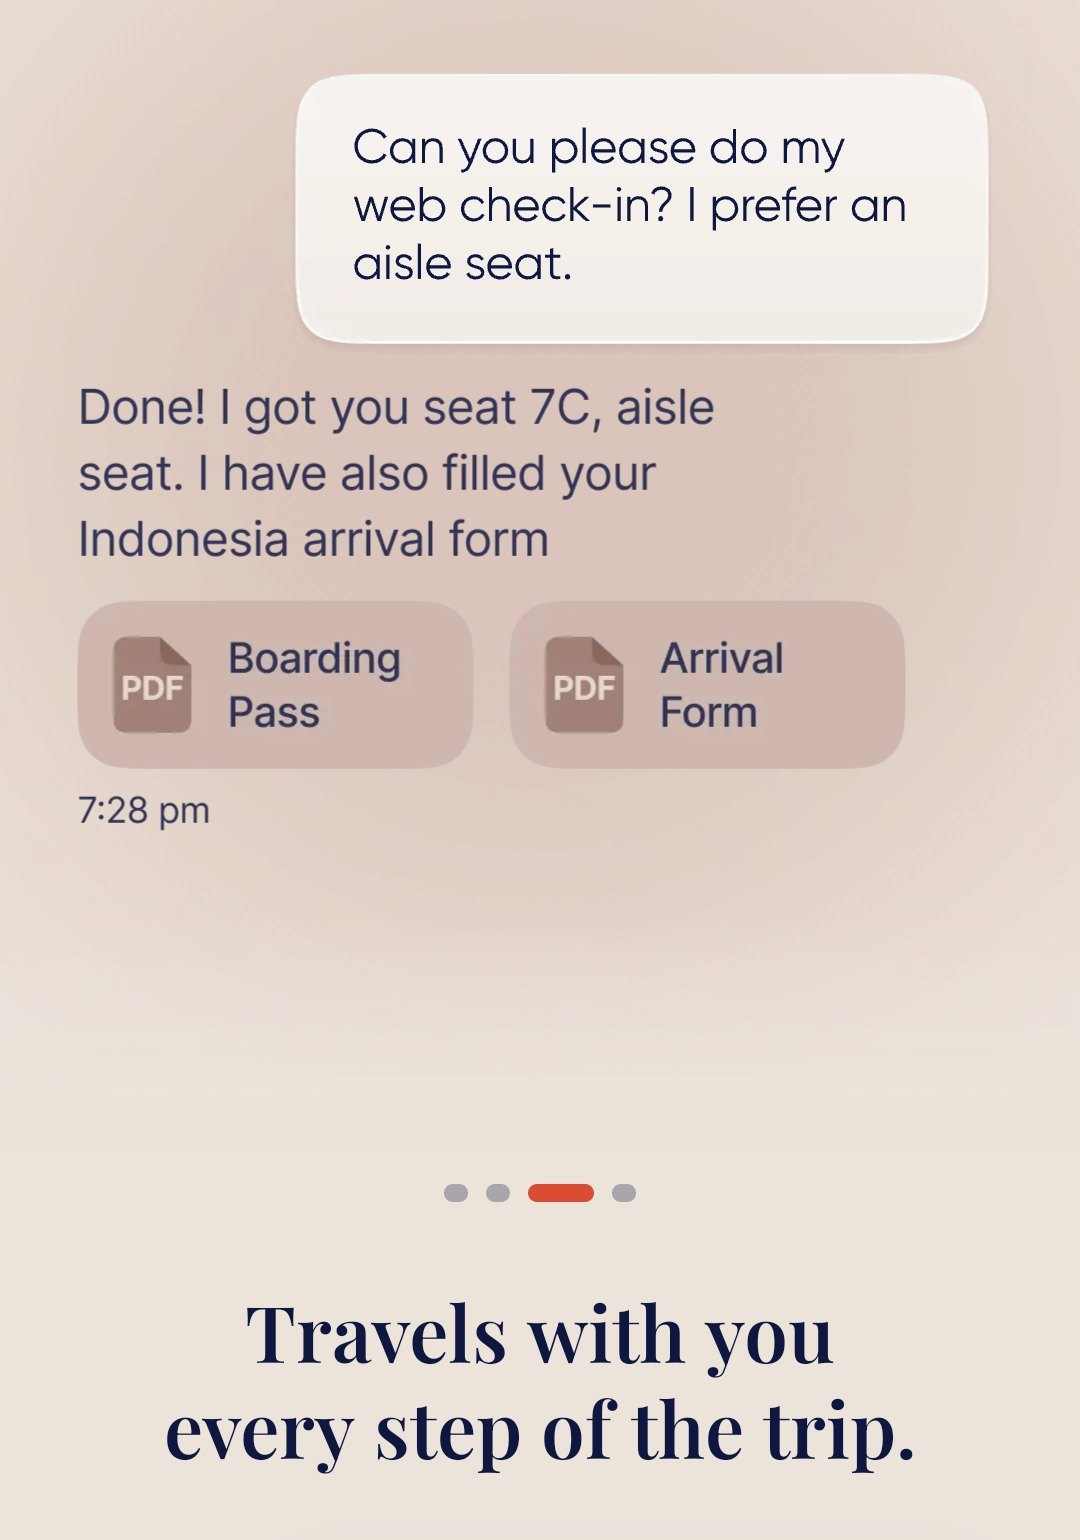
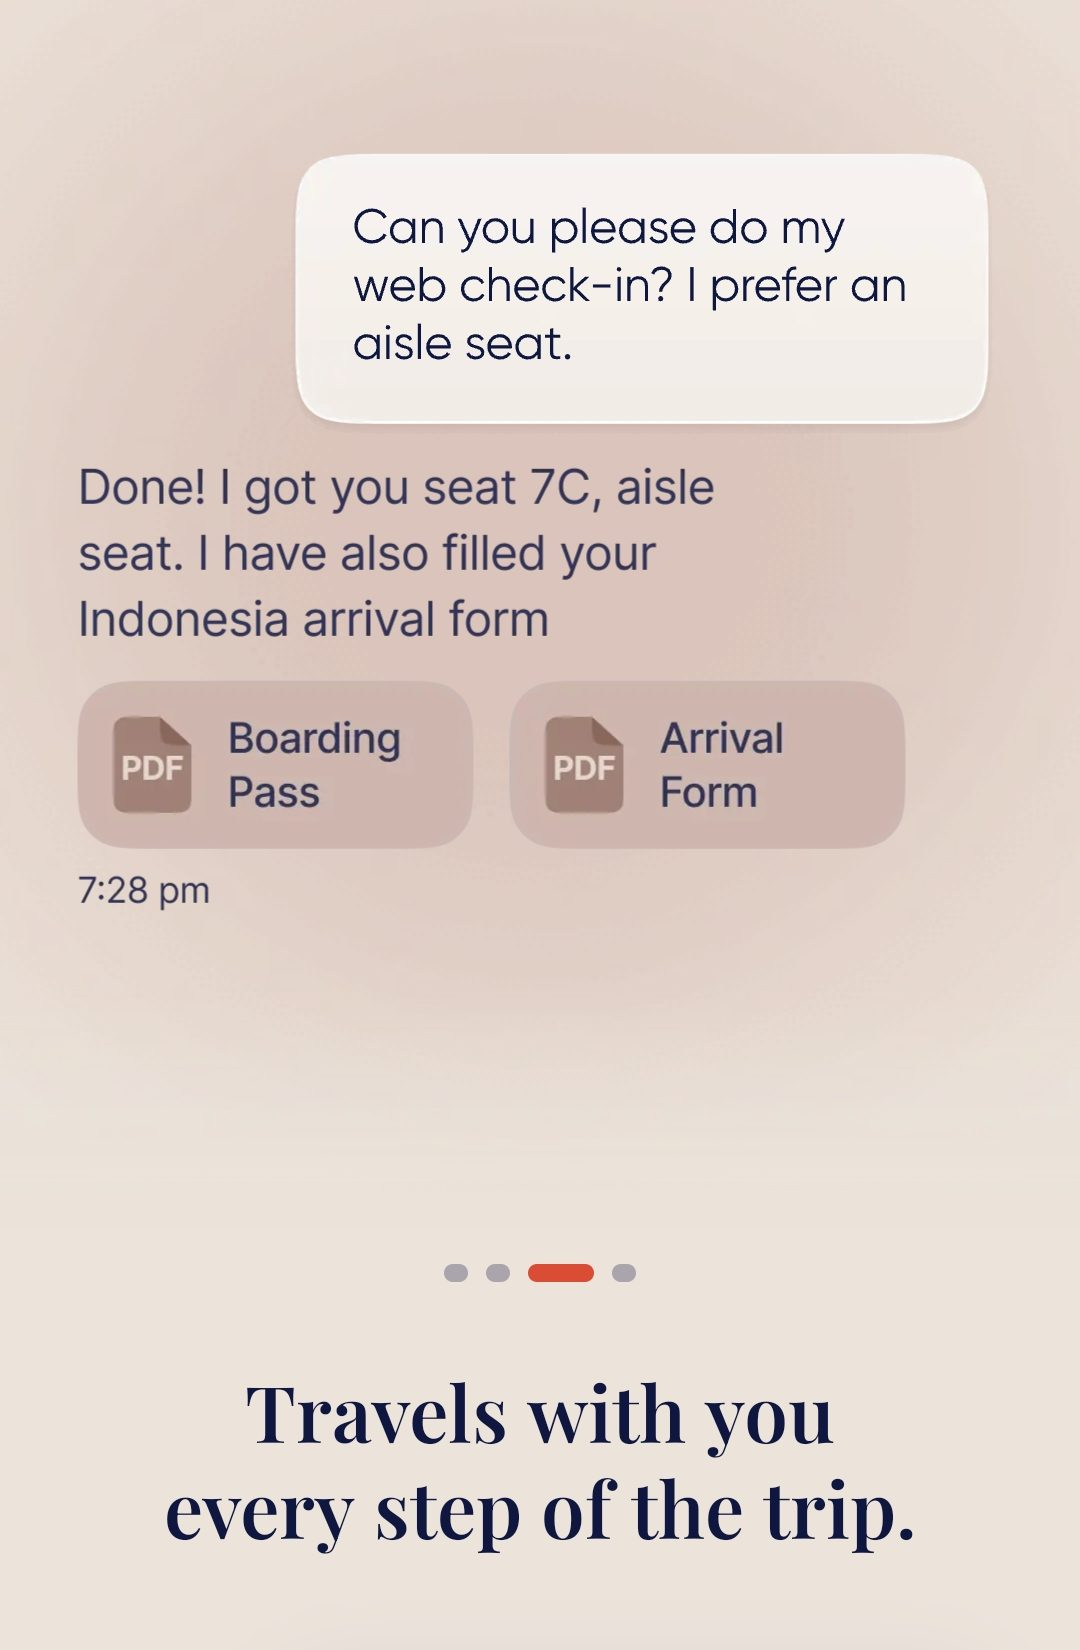
Cut the three onboarding screenshots to one height
They were 1894, 1785 and 1540px tall — three hand-trimmed crops of
the same 1080x2392 phone screen. Side by side that left the captions
on three different lines and the row read as an accident.

All three are now cut to 1080x1650 from the originals, with the crop
window placed per image so nothing is lost: the price comparison and
its headline, the full chat exchange and its headline, and the member
photo through the ₹999 card. Captions land on one line.

Also declared the dimensions on the img tags so the row holds its
space while the images load.

diff --git a/writing/crew/index.html b/writing/crew/index.html
@@ -85,15 +85,15 @@
 <p>CREW shows you the promise before you buy. The onboarding is confident and specific. One screen compares a hotel at ₹16,500 elsewhere against ₹12,500 on CREW — "member-only hotel rates the internet never sees." Another offers a welcome gift knocking ₹500 off an exclusive rate. A third demonstrates the concierge in action: a member asks for a web check-in with an aisle seat, and CREW replies that it is done — seat 7C, boarding pass attached, arrival form already filled. Behind all of it sits the ₹999 plan, or an invite.</p>
 <div class="fig-row">
 <figure class="fig-cell">
-  <img src="images/crew-02-rate-card.jpg" alt="CREW onboarding screen showing a hotel at ₹16,500 elsewhere versus ₹12,500 on CREW" loading="lazy" decoding="async" />
+  <img src="images/crew-02-rate-card.jpg" alt="CREW onboarding screen showing a hotel at ₹16,500 elsewhere versus ₹12,500 on CREW" width="1080" height="1650" loading="lazy" decoding="async" />
   <figcaption>The promise, quantified: CREW leads its pitch with a price the customer is invited to verify.</figcaption>
 </figure>
 <figure class="fig-cell">
-  <img src="images/crew-03-concierge-demo.jpg" alt="CREW concierge demo: a member asks for web check-in and receives a confirmed aisle seat and filled arrival form" loading="lazy" decoding="async" />
+  <img src="images/crew-03-concierge-demo.jpg" alt="CREW concierge demo: a member asks for web check-in and receives a confirmed aisle seat and filled arrival form" width="1080" height="1650" loading="lazy" decoding="async" />
   <figcaption>The concierge sold on an idealised demo — a flawless check-in that the app can show but not guarantee.</figcaption>
 </figure>
 <figure class="fig-cell">
-  <img src="images/crew-01-paywall.jpg" alt="CREW paywall: ₹999 for a six-month plan, with member benefits listed" loading="lazy" decoding="async" />
+  <img src="images/crew-01-paywall.jpg" alt="CREW paywall: ₹999 for a six-month plan, with member benefits listed" width="1080" height="1650" loading="lazy" decoding="async" />
   <figcaption>The gate itself: ₹999 for six months — a rounding error for this customer, which is why the real barrier is the trip, not the fee.</figcaption>
 </figure>
 </div>

diff --git a/styles.css b/styles.css
@@ -710,8 +710,9 @@ a.wr-in:hover .wr-title{color:var(--accent)}
 
 /* A run of phone screenshots sits in one row rather than stacked. Three portrait
    shots in sequence cost ~1500px of height and read as one idea anyway, so the
-   column carries them side by side with their own captions. Heights stay ragged
-   because the screens genuinely differ; forcing a common aspect would crop them. */
+   column carries them side by side with their own captions. The images must be
+   cut to a common aspect ratio before they go in here — mismatched heights leave
+   the captions on three different lines and the row reads as an accident. */
 .fig-row{display:grid;grid-template-columns:repeat(3,1fr);gap:24px;align-items:start;
   margin:44px 0;width:min(1124px,100vw - 56px);margin-left:50%;transform:translateX(-50%)}
 .fig-row figure{margin:0}
